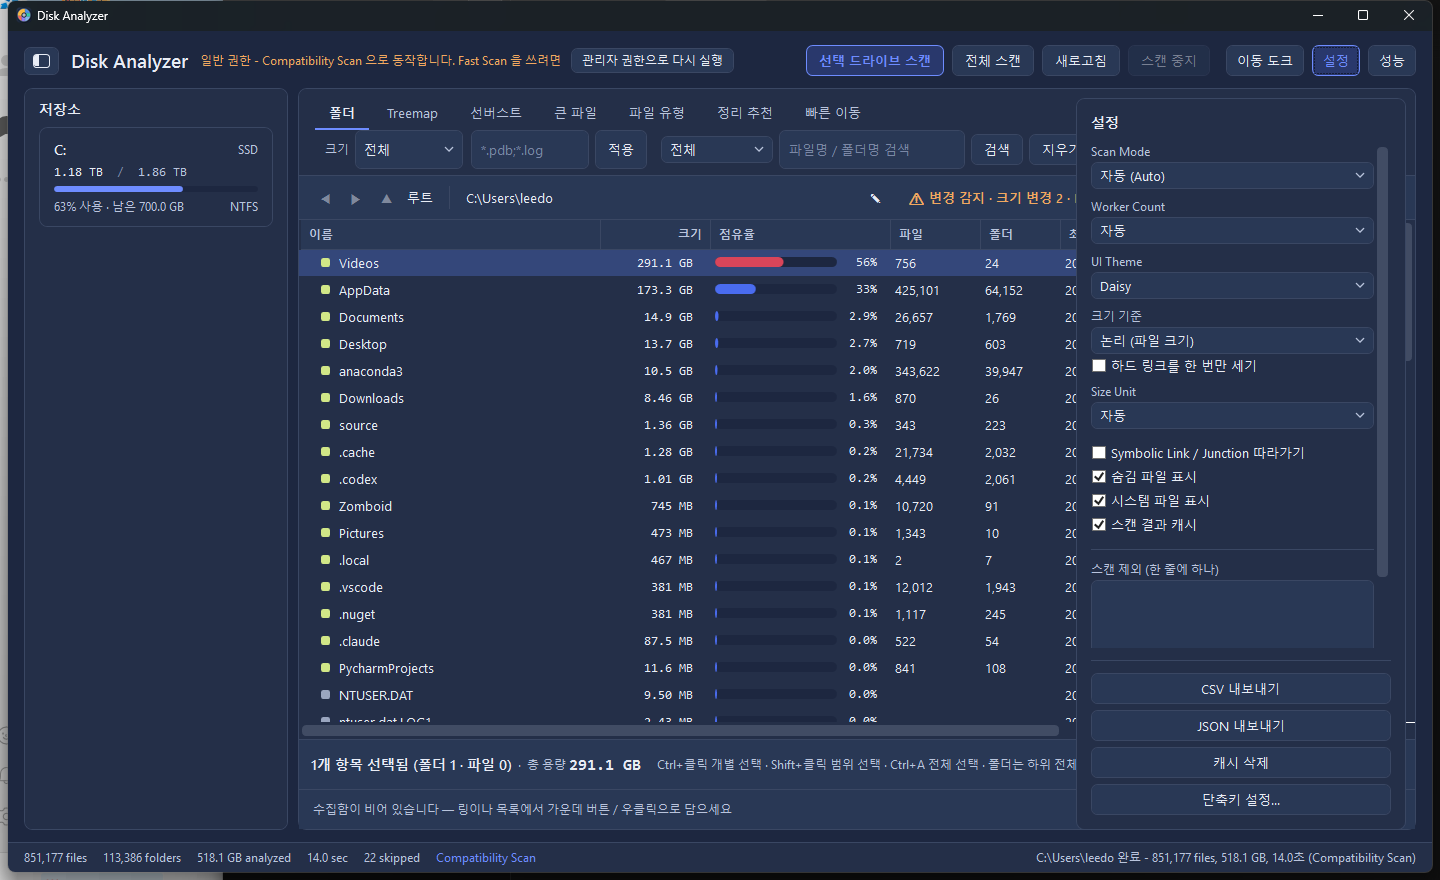
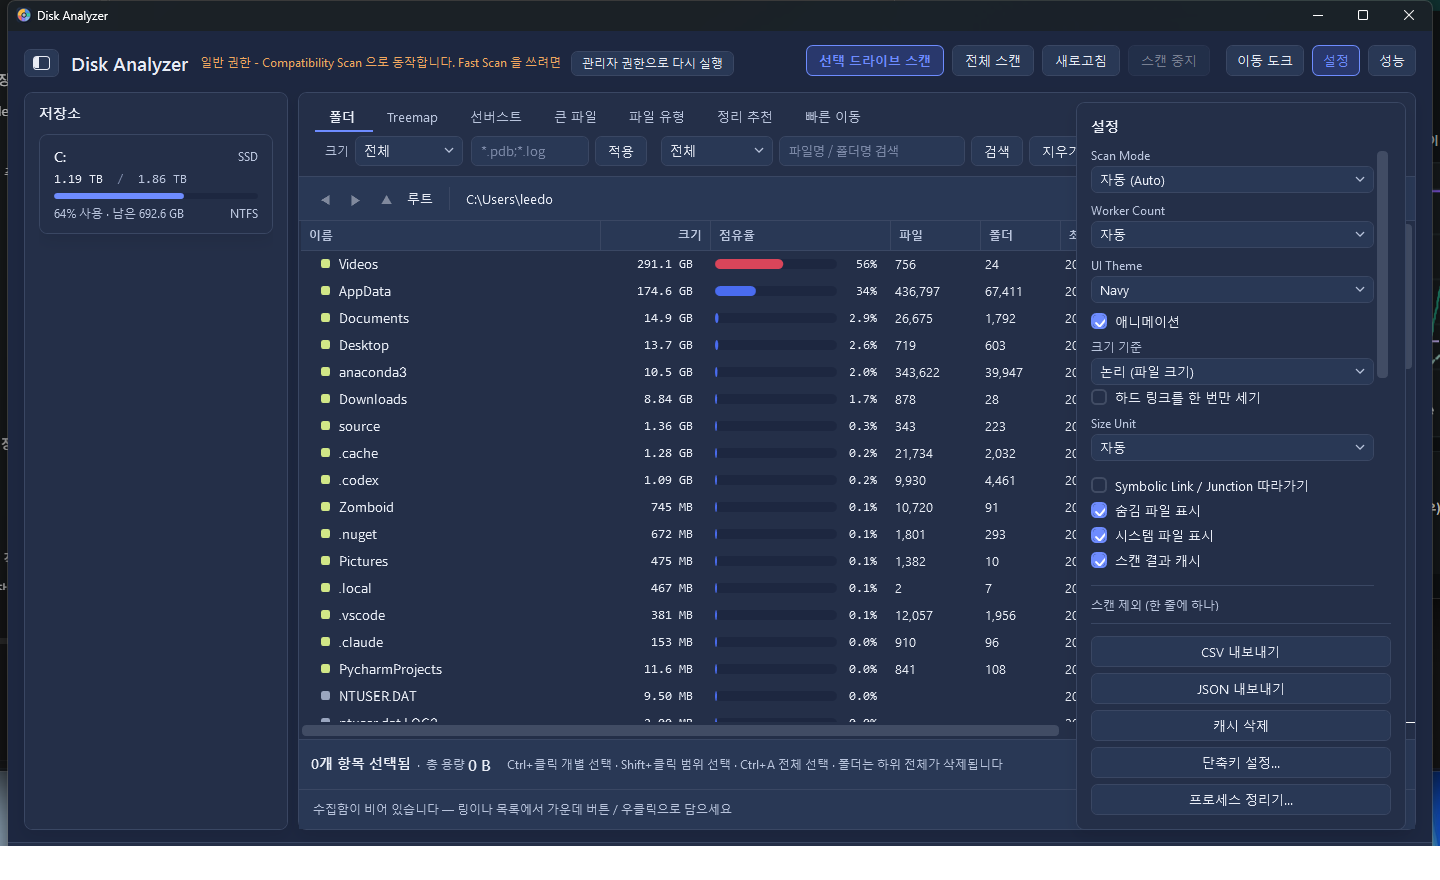
Remove DaisyDisk teardown doc and rename Daisy theme to Navy
The competitive analysis page reproduced quoted manual text and
pixel-measured design specs from a commercial product, and the
shipped app named its default-adjacent theme literally "Daisy" using
a palette sampled from that product's screenshots. Drop the doc and
rename the theme (palette and interaction model unchanged) to remove
the direct branding tie; old "Daisy" saved settings still map to Navy.

diff --git a/src/DiskAnalyzer.App/Themes/Navy.xaml b/src/DiskAnalyzer.App/Themes/Navy.xaml
@@ -1,8 +1,7 @@
 <ResourceDictionary xmlns="http://schemas.microsoft.com/winfx/2006/xaml/presentation"
                     xmlns:x="http://schemas.microsoft.com/winfx/2006/xaml">
 
-    <!-- DaisyDisk 팔레트. 제품 스크린샷에서 직접 읽은 값이다(docs/daisydisk.html 3.1).
-         배경 #242F48, 이음선 #293855, 경계 #414C64.
+    <!-- 남색 팔레트. 배경 #242F48, 이음선 #293855, 경계 #414C64.
          Dark / Light 를 건드리지 않고 세 번째 선택지로 얹는다 - 모든 스타일이 DynamicResource 라
          이 사전만 갈아 끼우면 창을 다시 만들지 않고 바뀐다. -->
 

diff --git a/src/DiskAnalyzer.App/Themes/Mint.xaml b/src/DiskAnalyzer.App/Themes/Mint.xaml
@@ -2,7 +2,7 @@
                     xmlns:x="http://schemas.microsoft.com/winfx/2006/xaml">
 
     <!-- AIUsageMonitor(자매 앱, WPF) 의 팔레트를 그대로 옮겨 왔다 - 흰 카드 + 옅은 회록색 캔버스 +
-         짙은 잉크 텍스트 + 테엌그린 액센트(#1F8A70). Dark / Light / Daisy 를 건드리지 않고
+         짙은 잉크 텍스트 + 테엌그린 액센트(#1F8A70). Dark / Light / Navy 를 건드리지 않고
          네 번째 선택지로 얹는다(모든 스타일이 DynamicResource 라 사전만 갈아 끼우면 된다) -
          지금은 이 팔레트를 기본값으로 쓴다. -->
 

diff --git a/src/DiskAnalyzer.App/App.xaml b/src/DiskAnalyzer.App/App.xaml
@@ -6,7 +6,7 @@
         <ResourceDictionary>
             <ResourceDictionary.MergedDictionaries>
                 <!-- [0] 테마 팔레트 - 런타임에 통째로 교체된다(App.ApplyTheme) -->
-                <ResourceDictionary Source="Themes/Daisy.xaml" />
+                <ResourceDictionary Source="Themes/Navy.xaml" />
                 <ResourceDictionary Source="Themes/Shared.xaml" />
             </ResourceDictionary.MergedDictionaries>
         </ResourceDictionary>

diff --git a/src/DiskAnalyzer.App/App.xaml.cs b/src/DiskAnalyzer.App/App.xaml.cs
@@ -7,7 +7,7 @@ namespace DiskAnalyzer.App;
 
 public partial class App : Application
 {
-    public enum AppTheme { Dark, Light, System, Daisy, Mint }
+    public enum AppTheme { Dark, Light, System, Navy, Mint }
 
     private static AppTheme _theme = AppTheme.Dark;
 
@@ -28,12 +28,14 @@ public partial class App : Application
         ApplyTheme(ParseTheme(UiSettings.Load().Theme));
     }
 
-    /// <summary>설정 화면의 테마 이름(문자열로 저장)을 <see cref="AppTheme"/> 로 바꾼다.</summary>
+    /// <summary>설정 화면의 테마 이름(문자열로 저장)을 <see cref="AppTheme"/> 로 바꾼다.
+    /// "Daisy" 는 이전 버전에서 저장된 값이라 그대로 <see cref="AppTheme.Navy"/> 로 매핑한다.</summary>
     public static AppTheme ParseTheme(string name) => name switch
     {
         "Light" => AppTheme.Light,
         "Dark" => AppTheme.Dark,
-        "Daisy" => AppTheme.Daisy,
+        "Navy" => AppTheme.Navy,
+        "Daisy" => AppTheme.Navy,
         "Mint" => AppTheme.Mint,
         _ => AppTheme.System,
     };
@@ -54,7 +56,7 @@ public partial class App : Application
     }
 
     /// <summary>
-    /// 17. Dark / Light / System / Daisy / Mint.
+    /// 17. Dark / Light / System / Navy / Mint.
     /// 팔레트 ResourceDictionary 만 교체하고 모든 스타일은 DynamicResource 로 참조하므로
     /// 창을 다시 만들지 않고 즉시 반영된다.
     /// </summary>
@@ -64,7 +66,7 @@ public partial class App : Application
         bool systemDark = theme == AppTheme.System && IsSystemDark();
         string source = theme switch
         {
-            AppTheme.Daisy => "Themes/Daisy.xaml",
+            AppTheme.Navy => "Themes/Navy.xaml",
             AppTheme.Mint => "Themes/Mint.xaml",
             AppTheme.Dark => "Themes/Dark.xaml",
             AppTheme.Light => "Themes/Light.xaml",

diff --git a/src/DiskAnalyzer.App/ViewModels/MainViewModel.cs b/src/DiskAnalyzer.App/ViewModels/MainViewModel.cs
@@ -41,7 +41,7 @@ public sealed partial class MainViewModel : ObservableObject
         _sidebarCollapsed = _ui.SidebarCollapsed;
         _sidebarWidth = _ui.SidebarWidth > 0 ? _ui.SidebarWidth : DefaultSidebarWidth;
         _ringTint = Enum.TryParse<SunburstTint>(_ui.RingTint, out var tint) ? tint : SunburstTint.Size;
-        _selectedTheme = _ui.Theme;
+        _selectedTheme = _ui.Theme == "Daisy" ? "Navy" : _ui.Theme; // 예전 이름으로 저장된 값 이전
 
         // 50. 애니메이션. 한 번도 정한 적이 없으면(첫 실행) Windows 의 '애니메이션 표시' 설정을 따른다.
         // 그 뒤로는 여기서 정한 값이 이긴다 — 그래서 값을 그때 바로 적어 둔다.
@@ -544,7 +544,7 @@ public sealed partial class MainViewModel : ObservableObject
         Raise(nameof(ExclusionSummary));
     }
 
-    public IReadOnlyList<string> ThemeOptions { get; } = new[] { "Mint", "Dark", "Light", "시스템", "Daisy" };
+    public IReadOnlyList<string> ThemeOptions { get; } = new[] { "Mint", "Dark", "Light", "시스템", "Navy" };
 
     private string _selectedTheme;
     public string SelectedTheme

diff --git a/src/DiskAnalyzer.Core/Models/UiSettings.cs b/src/DiskAnalyzer.Core/Models/UiSettings.cs
@@ -24,7 +24,7 @@ public sealed class UiSettings
     /// <summary>선버스트 링의 색 기준(<c>SunburstTint</c>). 이름으로 저장해 값이 밀려도 안전하다.</summary>
     public string RingTint { get; set; } = nameof(SunburstTint.Size);
 
-    /// <summary>고른 UI 테마 이름(Mint · Dark · Light · 시스템 · Daisy). 안 고르면 시스템을 따라간다.</summary>
+    /// <summary>고른 UI 테마 이름(Mint · Dark · Light · 시스템 · Navy). 안 고르면 시스템을 따라간다.</summary>
     public string Theme { get; set; } = "시스템";
 
     /// <summary>크기를 논리로 볼지 물리(디스크 할당)로 볼지. 이름으로 저장한다.</summary>

diff --git a/src/DiskAnalyzer.App/Controls/TreemapControl.cs b/src/DiskAnalyzer.App/Controls/TreemapControl.cs
@@ -528,7 +528,7 @@ public sealed class TreemapControl : FrameworkElement
     {
         private const int Depths = MaxDepth + 2;
 
-        // 어두운 캔버스(Dark · Daisy) 용 - 짙게 시작해 깊이마다 밝아진다.
+        // 어두운 캔버스(Dark · Navy) 용 - 짙게 시작해 깊이마다 밝아진다.
         private static readonly Color[] DarkBase =
         {
             Color.FromRgb(0x36, 0x47, 0x5A),   // 0 폴더

diff --git a/wiki/Home.md b/wiki/Home.md
@@ -210,7 +210,7 @@
 
 - 스캔 방식(자동 / Fast / Compatibility), 워커 수(자동 / 수동)
 - 크기 기준(논리 / 물리) 및 하드 링크 중복 제거 옵션
-- 숨김/시스템 파일 표시 여부, UI 테마(Daisy / Dark / Light / 시스템), 크기 단위
+- 숨김/시스템 파일 표시 여부, UI 테마(Mint / Dark / Light / Navy / 시스템), 크기 단위
 - 스캔 결과 캐시 사용 여부
 - **스캔 제외 규칙**: 확장자·이름·경로 단위로 스캔에서 제외할 대상을 직접 지정
 
